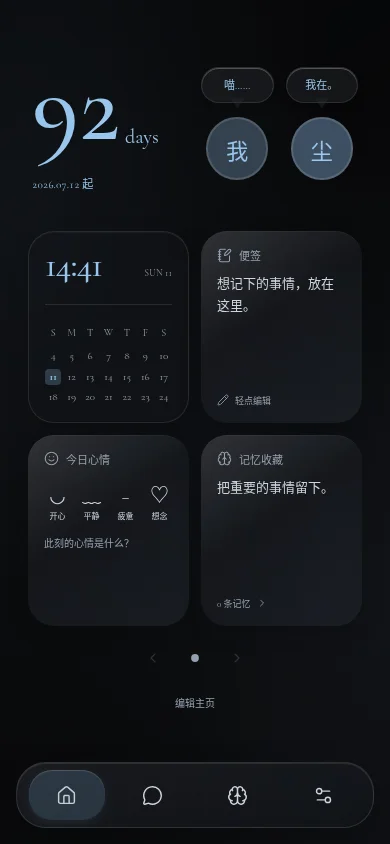
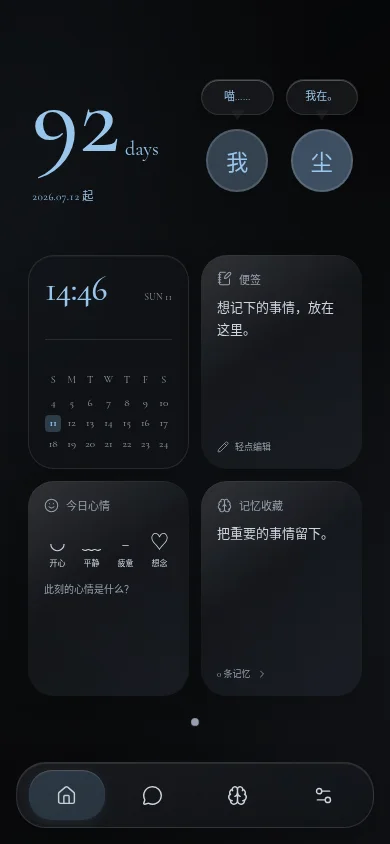
Simplify home pagination and remove redundant edit footer

diff --git a/src/style.css b/src/style.css
@@ -48,7 +48,7 @@ button:active:not(:disabled){transform:scale(.97)}
 .message .bubble{-webkit-touch-callout:none;user-select:none;touch-action:pan-y}.message .bubble:focus-visible{outline:2px solid var(--accent);outline-offset:4px}.message-dialog{position:fixed;inset:auto;margin:0;width:200px;max-width:calc(100vw - 24px);padding:8px;border-radius:22px;background:rgb(var(--glass-tint) / .9)}.message-dialog::backdrop{background:rgb(20 27 40 / .13);backdrop-filter:blur(6px);-webkit-backdrop-filter:blur(6px)}.message-menu{display:grid}.message-menu button{min-height:48px;padding:10px 16px;text-align:left;border-radius:14px;font-size:14px}.message-menu button:hover{background:rgb(var(--tint) / .12)}.message-menu .destructive{color:var(--ink)}.message-dialog.editing{inset:0;margin:auto;width:min(440px,calc(100vw - 32px));max-height:85dvh;padding:22px;overflow:auto}.message-dialog textarea{width:100%;resize:vertical;min-height:140px}.reasoning-trigger{display:flex;align-items:center;gap:7px;align-self:flex-start;margin-top:9px;color:var(--muted);font-size:11px;padding:8px 12px;border-radius:16px;background:rgb(var(--glass-tint) / .3)}.reasoning-trigger svg{width:13px;height:13px}.reasoning-label{font-size:11px;color:var(--muted);margin:10px 0}.reasoning-content{white-space:pre-wrap;overflow-wrap:anywhere;line-height:1.85;font-size:14px;user-select:text;min-height:140px;max-height:55dvh;overflow:auto;padding:14px;border-radius:18px;background:rgb(var(--glass-tint) / .25)}
 
 /* Home: wallpaper-first anniversary and direct widget editing. */
-.home-page{padding-top:calc(28px + env(safe-area-inset-top))}.home-content{max-width:480px}.home-widget{position:relative;min-width:0;border-radius:26px;touch-action:pan-y;-webkit-touch-callout:none}.home-widget:focus-visible{outline:2px solid var(--accent);outline-offset:5px}.widget-surface{height:100%;min-width:0}.widget-surface>.widget{width:100%;height:100%;border:0;background-color:rgb(var(--glass-tint) / calc(var(--glass-alpha) * .55));box-shadow:0 6px 22px rgb(var(--tint) / .045)}.home-widget .anniversary{padding:8px 4px 22px;border:0;border-radius:0;background:none;box-shadow:none;backdrop-filter:none;overflow:visible;text-align:left}.home-clock{display:flex;flex-direction:column;gap:6px;margin-bottom:24px}.home-clock time{font-size:52px;font-weight:270;line-height:1.1;letter-spacing:-.055em;font-variant-numeric:tabular-nums}.home-clock>span{font-size:11px;color:var(--muted);letter-spacing:.03em}.anniversary-bottom{display:grid;grid-template-columns:minmax(0,.95fr) minmax(0,1.25fr);gap:18px;align-items:end}.anniversary-days{padding:7px 0;min-width:0}.anniversary-days .anniversary-title{justify-content:flex-start;letter-spacing:.06em;font-size:11px;text-align:left}.anniversary-days .day-count{display:flex;align-items:baseline;gap:10px;margin:7px 0 12px}.anniversary-days .day-count strong{font-size:66px;font-weight:250;line-height:1;letter-spacing:-.06em}.anniversary-days .day-count.long-count strong{font-size:39px}.anniversary-days .day-count>span{margin:0;font-size:11px;white-space:nowrap}.anniversary-days .since{justify-content:flex-start;font-size:9px;letter-spacing:.025em}.home-partners{display:grid;grid-template-columns:repeat(2,minmax(0,1fr));gap:12px;align-items:end;padding-top:10px}.home-partner{min-width:0;display:flex;flex-direction:column;align-items:center;position:relative;gap:9px}.home-partner .avatar{width:65px;height:65px;border:0;box-shadow:0 4px 12px rgb(var(--tint) / .12);background:rgb(var(--glass-tint) / .35)}.partner-name{font-size:10px;max-width:100%;overflow:hidden;white-space:nowrap;text-overflow:ellipsis}.thought-bubble{position:relative;align-self:stretch;display:flex;align-items:center;justify-content:center;min-height:42px;margin:0 -2px 5px;padding:11px 10px;border-radius:20px;max-height:80px;color:var(--ink);background:rgb(var(--glass-tint) / .8);box-shadow:0 4px 14px rgb(var(--tint) / .13);font-size:11px;line-height:1.4;overflow-wrap:anywhere;text-align:center;white-space:pre-wrap;isolation:isolate}.thought-bubble:before,.thought-bubble:after{content:'';position:absolute;bottom:-5px;left:25%;width:13px;height:12px;border-radius:50%;background:rgb(var(--glass-tint) / .9)}.thought-bubble:after{width:5px;height:5px;left:37%;bottom:-12px;background:rgb(var(--glass-tint) / .8)}.home-widget .anniversary>p{font-size:10px;margin-top:24px;text-align:left;opacity:.85}.home-edit-entry{display:block;margin:22px auto 0;padding:10px 16px;font-size:10px;color:var(--muted);border-radius:18px}.home-edit-toolbar{display:flex;align-items:center;justify-content:space-between;gap:12px;position:sticky;top:0;z-index:9;margin-bottom:8px}.home-edit-toolbar>button{display:flex;align-items:center;gap:6px;min-height:40px;padding:8px 16px;border-radius:22px;font-size:12px}.home-edit-toolbar svg{width:16px;height:16px}.home-edit-help{font-size:10px;color:var(--muted);margin:8px 2px 22px}.home-editing .home-widget{outline:1px dashed rgb(var(--tint) / .5);outline-offset:4px}.widget-remove{position:absolute;top:-10px;left:-10px;z-index:3;width:30px;height:30px;display:grid;place-items:center;border-radius:50%;background:var(--solid);box-shadow:0 2px 9px rgb(var(--tint) / .2);font-size:21px}.home-editor-dialog{position:fixed;inset:auto 0 0;margin:0 auto;width:min(540px,100%);max-width:none;max-height:85dvh;padding:20px 22px calc(24px + env(safe-area-inset-bottom));border:0;border-radius:30px 30px 0 0;color:var(--ink);background-color:rgb(var(--glass-tint) / .92);overflow:auto;overscroll-behavior:contain}.home-editor-dialog::backdrop{background:rgb(20 27 40 / .16);backdrop-filter:blur(7px);-webkit-backdrop-filter:blur(7px)}.home-editor-heading{display:flex;align-items:center;justify-content:space-between;gap:12px}.home-editor-heading h2{font-size:17px}.home-editor-heading button{width:40px;height:40px;display:grid;place-items:center;border-radius:50%}.home-avatar-editor{display:grid;grid-template-columns:1fr 1fr;gap:16px;padding:10px 0}.home-avatar-editor>div{display:flex;flex-direction:column;align-items:center;gap:10px}.home-avatar-editor .upload-label{position:relative;font-size:11px;cursor:pointer}.home-editor-footer{display:flex;justify-content:flex-end;gap:10px;margin-top:20px}.home-editor-footer button{min-width:80px}.home-widget-picker{display:grid;gap:9px;margin-top:16px}.home-widget-picker button{display:flex;justify-content:space-between;align-items:center;padding:18px;border-radius:20px;background:rgb(var(--tint) / .08);font-size:13px}.home-widget-picker small{font-size:10px;color:var(--muted)}.home-check{display:flex;align-items:center;gap:10px;font-size:13px;padding:15px 0}.home-check input{width:18px;height:18px}
+.home-page{padding-top:calc(28px + env(safe-area-inset-top))}.home-content{max-width:480px}.home-widget{position:relative;min-width:0;border-radius:26px;touch-action:pan-y;-webkit-touch-callout:none}.home-widget:focus-visible{outline:2px solid var(--accent);outline-offset:5px}.widget-surface{height:100%;min-width:0}.widget-surface>.widget{width:100%;height:100%;border:0;background-color:rgb(var(--glass-tint) / calc(var(--glass-alpha) * .55));box-shadow:0 6px 22px rgb(var(--tint) / .045)}.home-widget .anniversary{padding:8px 4px 22px;border:0;border-radius:0;background:none;box-shadow:none;backdrop-filter:none;overflow:visible;text-align:left}.home-clock{display:flex;flex-direction:column;gap:6px;margin-bottom:24px}.home-clock time{font-size:52px;font-weight:270;line-height:1.1;letter-spacing:-.055em;font-variant-numeric:tabular-nums}.home-clock>span{font-size:11px;color:var(--muted);letter-spacing:.03em}.anniversary-bottom{display:grid;grid-template-columns:minmax(0,.95fr) minmax(0,1.25fr);gap:18px;align-items:end}.anniversary-days{padding:7px 0;min-width:0}.anniversary-days .anniversary-title{justify-content:flex-start;letter-spacing:.06em;font-size:11px;text-align:left}.anniversary-days .day-count{display:flex;align-items:baseline;gap:10px;margin:7px 0 12px}.anniversary-days .day-count strong{font-size:66px;font-weight:250;line-height:1;letter-spacing:-.06em}.anniversary-days .day-count.long-count strong{font-size:39px}.anniversary-days .day-count>span{margin:0;font-size:11px;white-space:nowrap}.anniversary-days .since{justify-content:flex-start;font-size:9px;letter-spacing:.025em}.home-partners{display:grid;grid-template-columns:repeat(2,minmax(0,1fr));gap:12px;align-items:end;padding-top:10px}.home-partner{min-width:0;display:flex;flex-direction:column;align-items:center;position:relative;gap:9px}.home-partner .avatar{width:65px;height:65px;border:0;box-shadow:0 4px 12px rgb(var(--tint) / .12);background:rgb(var(--glass-tint) / .35)}.partner-name{font-size:10px;max-width:100%;overflow:hidden;white-space:nowrap;text-overflow:ellipsis}.thought-bubble{position:relative;align-self:stretch;display:flex;align-items:center;justify-content:center;min-height:42px;margin:0 -2px 5px;padding:11px 10px;border-radius:20px;max-height:80px;color:var(--ink);background:rgb(var(--glass-tint) / .8);box-shadow:0 4px 14px rgb(var(--tint) / .13);font-size:11px;line-height:1.4;overflow-wrap:anywhere;text-align:center;white-space:pre-wrap;isolation:isolate}.thought-bubble:before,.thought-bubble:after{content:'';position:absolute;bottom:-5px;left:25%;width:13px;height:12px;border-radius:50%;background:rgb(var(--glass-tint) / .9)}.thought-bubble:after{width:5px;height:5px;left:37%;bottom:-12px;background:rgb(var(--glass-tint) / .8)}.home-widget .anniversary>p{font-size:10px;margin-top:24px;text-align:left;opacity:.85}.home-edit-toolbar{display:flex;align-items:center;justify-content:space-between;gap:12px;position:sticky;top:0;z-index:9;margin-bottom:8px}.home-edit-toolbar>button{display:flex;align-items:center;gap:6px;min-height:40px;padding:8px 16px;border-radius:22px;font-size:12px}.home-edit-toolbar svg{width:16px;height:16px}.home-edit-help{font-size:10px;color:var(--muted);margin:8px 2px 22px}.home-editing .home-widget{outline:1px dashed rgb(var(--tint) / .5);outline-offset:4px}.widget-remove{position:absolute;top:-10px;left:-10px;z-index:3;width:30px;height:30px;display:grid;place-items:center;border-radius:50%;background:var(--solid);box-shadow:0 2px 9px rgb(var(--tint) / .2);font-size:21px}.home-editor-dialog{position:fixed;inset:auto 0 0;margin:0 auto;width:min(540px,100%);max-width:none;max-height:85dvh;padding:20px 22px calc(24px + env(safe-area-inset-bottom));border:0;border-radius:30px 30px 0 0;color:var(--ink);background-color:rgb(var(--glass-tint) / .92);overflow:auto;overscroll-behavior:contain}.home-editor-dialog::backdrop{background:rgb(20 27 40 / .16);backdrop-filter:blur(7px);-webkit-backdrop-filter:blur(7px)}.home-editor-heading{display:flex;align-items:center;justify-content:space-between;gap:12px}.home-editor-heading h2{font-size:17px}.home-editor-heading button{width:40px;height:40px;display:grid;place-items:center;border-radius:50%}.home-avatar-editor{display:grid;grid-template-columns:1fr 1fr;gap:16px;padding:10px 0}.home-avatar-editor>div{display:flex;flex-direction:column;align-items:center;gap:10px}.home-avatar-editor .upload-label{position:relative;font-size:11px;cursor:pointer}.home-editor-footer{display:flex;justify-content:flex-end;gap:10px;margin-top:20px}.home-editor-footer button{min-width:80px}.home-widget-picker{display:grid;gap:9px;margin-top:16px}.home-widget-picker button{display:flex;justify-content:space-between;align-items:center;padding:18px;border-radius:20px;background:rgb(var(--tint) / .08);font-size:13px}.home-widget-picker small{font-size:10px;color:var(--muted)}.home-check{display:flex;align-items:center;gap:10px;font-size:13px;padding:15px 0}.home-check input{width:18px;height:18px}
 @media(max-width:380px){.home-page{padding-left:20px;padding-right:20px}.home-clock time{font-size:46px}.anniversary-bottom{gap:10px;grid-template-columns:.9fr 1.3fr}.home-partners{gap:8px}.home-partner .avatar{width:52px;height:52px}.anniversary-days .day-count strong{font-size:55px}.anniversary-days .anniversary-title{font-size:10px}.thought-bubble{font-size:10px;padding:9px 6px;min-height:38px}.anniversary-days .since{font-size:8px}.home-widget .anniversary{padding-left:0;padding-right:0}.home-editor-dialog{padding-left:18px;padding-right:18px}}
 
 /* Interaction feedback, with one shared, restrained motion language. */
@@ -96,10 +96,7 @@ dialog[open]::backdrop{animation:backdrop-arrive 180ms ease-out}
 .home-desktop .widget-grid{margin-top:8px;align-items:start}
 .home-desktop .hero-widget{grid-column:1 / -1}
 .home-page-controls{display:flex;justify-content:center;align-items:center;gap:8px;margin-top:18px}
-.home-page-controls>button{width:44px;height:44px;display:grid;place-items:center;color:var(--muted)}
-.home-page-controls>button svg{width:16px;height:16px;transform:rotate(-90deg)}
-.home-page-controls>button:disabled{opacity:.25}
-.home-page-dots{display:flex;flex-wrap:wrap;justify-content:center;max-width:calc(100% - 104px)}
+.home-page-dots{display:flex;flex-wrap:wrap;justify-content:center;max-width:100%}
 .home-page-dots button{width:24px;min-height:44px;display:grid;place-items:center}
 .home-page-dots span{width:6px;height:6px;border-radius:50%;background:var(--muted);opacity:.35;transition:opacity .15s,transform .15s}
 .home-page-dots [aria-current=page] span{opacity:1;transform:scale(1.3)}
@@ -147,8 +144,8 @@ dialog[open]::backdrop{animation:backdrop-arrive 180ms ease-out}
 .home-desktop .widget p{margin-top:10px;display:-webkit-box;-webkit-line-clamp:3;-webkit-box-orient:vertical;overflow:hidden}
 .home-desktop .widget-foot{padding-top:8px;flex-shrink:0}
 .home-desktop .date-widget strong{margin-top:12px}
-.home-page-controls{flex-shrink:0;margin-top:10px}
-.home-edit-entry{flex-shrink:0;margin:0 auto;min-height:44px}
+.home-page-controls{flex-shrink:0;margin-top:4px}
+
 .home-edit-help{flex-shrink:0;margin-bottom:16px}
 .home-edit-toolbar{flex-shrink:0}
 .home-page-empty{position:absolute;inset:0}
@@ -208,3 +205,6 @@ dialog[open]::backdrop{animation:backdrop-arrive 180ms ease-out}
  .home-editing .calendar-grid{font-size:9px;line-height:1.25}
  .home-editing .calendar-weekday{font-size:9px}
 }
+
+/* Keep only the page dots above the dock, without the former footer gap. */
+.home-page{padding-bottom:8px}

diff --git a/src/views.js b/src/views.js
@@ -45,7 +45,7 @@ export function home(state,ui={}) {
  const hero=`<section class="anniversary anniversary-horizontal"><div class="anniversary-row"><div class="anniversary-days"><div class="day-count ${String(count).length===3?'medium-count':''} ${String(count).length>3?'long-count':''} ${String(count).length>4?'extra-long-count':''}"><strong data-home-days>${count}</strong><span data-home-days-unit>days</span></div><span class="since">${escape(h.since.replaceAll('-','.'))} ${days>0?'起':'开始'}</span></div><div class="anniversary-companions">${[['user',h.userName,h.userBubble||'喵……'],['ai',state.persona.name,h.aiBubble||'我在。']].map(([who,name,bubble])=>`<div class="anniversary-person"><span class="anniversary-pill" title="${escape(name)}：${escape(bubble)}"><span class="sr-only">${escape(name)}：</span><span class="anniversary-bubble-text">${escape(bubble)}</span></span><span class="anniversary-avatar ${who}" title="${escape(name)}" aria-label="${escape(name)}">${avatar(state,who)}</span></div>`).join('')}</div></div></section>`;
  const pages=ui.dragPages||h.pages||[['anniversary',...h.widgets.map(w=>w.type)]],current=Math.min(ui.page||0,pages.length-1);
  const visible=pages[current].filter(type=>type==='anniversary'?h.anniversaryVisible!==false:h.widgets.some(w=>w.type===type&&w.enabled));
- return `<div class="home-content home-desktop ${editing?'home-editing':''}">${editing?`<div class="home-edit-toolbar"><button class="glass" data-home-action="add" aria-label="添加小组件">${icon('plus')}组件</button><button class="glass" data-home-action="add-page" ${pages.length>=12?'disabled':''}>${icon('layout')}新增页</button><button class="glass" data-home-action="done">完成</button></div><p class="home-edit-help">拖拽调整位置 · 拖到边缘停留可翻页</p>`:''}<section class="home-desktop-page" aria-label="第 ${current+1} 页" data-home-page="${current}"><div class="widget-grid">${homeGridSlots(visible).map(slot=>wrap(slot.type,slot.type==='anniversary'?hero:widgets[slot.type],slot)).join('')}</div>${visible.length?'':`<div class="home-page-empty"><span>${icon('layout')}</span><p>${editing?'从其他页拖入组件，或添加小组件':'这一页，留给新的日常。'}</p>${editing?'<button class="glass" data-home-action="add">添加小组件</button>':''}</div>`}</section><div class="home-page-controls"><button data-home-action="page" data-page="${current-1}" aria-label="上一页" ${current===0?'disabled':''}>${icon('up')}</button><nav class="home-page-dots" aria-label="主页分页">${pages.map((_,i)=>`<button data-home-action="page" data-page="${i}" aria-label="第 ${i+1} 页" ${i===current?'aria-current="page"':''}><span></span></button>`).join('')}</nav><button data-home-action="page" data-page="${current+1}" aria-label="下一页" ${current===pages.length-1?'disabled':''}>${icon('down')}</button></div>${editing?'':`<button class="home-edit-entry" data-home-action="begin">编辑主页</button>`}</div>`;
+ return `<div class="home-content home-desktop ${editing?'home-editing':''}">${editing?`<div class="home-edit-toolbar"><button class="glass" data-home-action="add" aria-label="添加小组件">${icon('plus')}组件</button><button class="glass" data-home-action="add-page" ${pages.length>=12?'disabled':''}>${icon('layout')}新增页</button><button class="glass" data-home-action="done">完成</button></div><p class="home-edit-help">拖拽调整位置 · 拖到边缘停留可翻页</p>`:''}<section class="home-desktop-page" aria-label="第 ${current+1} 页" data-home-page="${current}"><div class="widget-grid">${homeGridSlots(visible).map(slot=>wrap(slot.type,slot.type==='anniversary'?hero:widgets[slot.type],slot)).join('')}</div>${visible.length?'':`<div class="home-page-empty"><span>${icon('layout')}</span><p>${editing?'从其他页拖入组件，或添加小组件':'这一页，留给新的日常。'}</p>${editing?'<button class="glass" data-home-action="add">添加小组件</button>':''}</div>`}</section><div class="home-page-controls"><nav class="home-page-dots" aria-label="主页分页">${pages.map((_,i)=>`<button data-home-action="page" data-page="${i}" aria-label="第 ${i+1} 页" ${i===current?'aria-current="page"':''}><span></span></button>`).join('')}</nav></div></div>`;
 }
 export function memory(state,filter='all',search='') {
  const list=state.memories.filter(m => (filter==='expired'?isExpired(m):!isExpired(m) && (filter==='all'||m.kind===filter)) && `${m.title} ${m.content}`.toLowerCase().includes(search.toLowerCase()));

diff --git a/docs/CODEX_HANDOFF.md b/docs/CODEX_HANDOFF.md
@@ -36,8 +36,8 @@
 - 日历遵循用户提供的玻璃卡片示例：实时 24 小时时间、星期/日期标签、分隔线、前一周/本周/后一周共 21 天，突出今天；跨日刷新，跨月/跨年正确排列，保留星期显示设置与组件名。
 - 主页每页固定 4 列 × 6 行；纪念日占 4×2，今天、便签、心情、记忆收藏各占 2×2。按组件顺序寻找空位排列，不重写原分页数据。
 - 长按或右键主页组件，在组件附近弹出「编辑内容、编辑主页、移除」菜单；支持键盘入口、方向键、Escape 与点击外部关闭。编辑内容只打开当前组件的编辑抽屉。
-- 「编辑主页」进入全局布局模式，直接拖拽组件排序（含纪念日），使用角落的 × 移除，不再提供选中模式或箭头排序，也不打开内容编辑。底部保留「编辑主页」入口。
-- 主页支持新增分页（最多 12 页）、左右滑动和圆点切换。编辑模式拖到左右边缘或分页控件停留约 650ms 可翻页并移动组件；拖拽中显示浮起的组件与原位占位，释放才保存，取消不保存。
+- 「编辑主页」进入全局布局模式，直接拖拽组件排序（含纪念日），使用角落的 × 移除，不再提供选中模式或箭头排序，也不打开内容编辑。底部「编辑主页」入口已按用户要求删除，长按组件菜单仍可进入编辑。
+- 主页支持新增分页（最多 12 页）、左右滑动和圆点切换；左右箭头已删除，分页圆点保留，底部留白收紧。编辑模式拖到左右边缘或分页控件停留约 650ms 可翻页并移动组件；拖拽中显示浮起的组件与原位占位，释放才保存，取消不保存。
 - 键盘可用 Alt+上下调整页内顺序、Alt+左右移到相邻页。
 - 菜单按组件实际位置水平居中并避让屏幕边缘，上半屏优先向下、下半屏优先向上弹出；基于未变换的尺寸定位，避免开场动画影响坐标。
 - 纪念日日期、双方名字/头像、气泡文字，以及各组件设置均可原地修改；取消不保存。移除只隐藏并保留内容，可重新添加（含纪念日）；支持网格内拖拽排序及跨页移动，不是任意像素位置的自由布局。

diff --git a/docs/verification.md b/docs/verification.md
@@ -55,3 +55,8 @@
 - 浏览器模拟时间验证 23:59→00:00 与 10月31日→11月1日自动更新，320px 下三/四/五位纪念日数字仍能容纳 days。
 - 实际触摸事件复查长按、跨页拖拽、滑动翻页、导航、夜间模式，无 JavaScript 运行错误。
 - 夜间模式为网页整体配色与壁纸压暗，不能调整手机硬件屏幕亮度；尚未验证实体 iPhone。
+
+## 收紧主页底部分页区域
+
+- 删除底部“编辑主页”入口及左右箭头，仅保留分页圆点；减少底部留白，圆点点击区域保留 44px 高度。
+- 20 项测试及语法检查通过；Chromium 实际触摸复查组件长按菜单进入编辑、新增页、跨页拖拽和滑动翻页，均正常。
